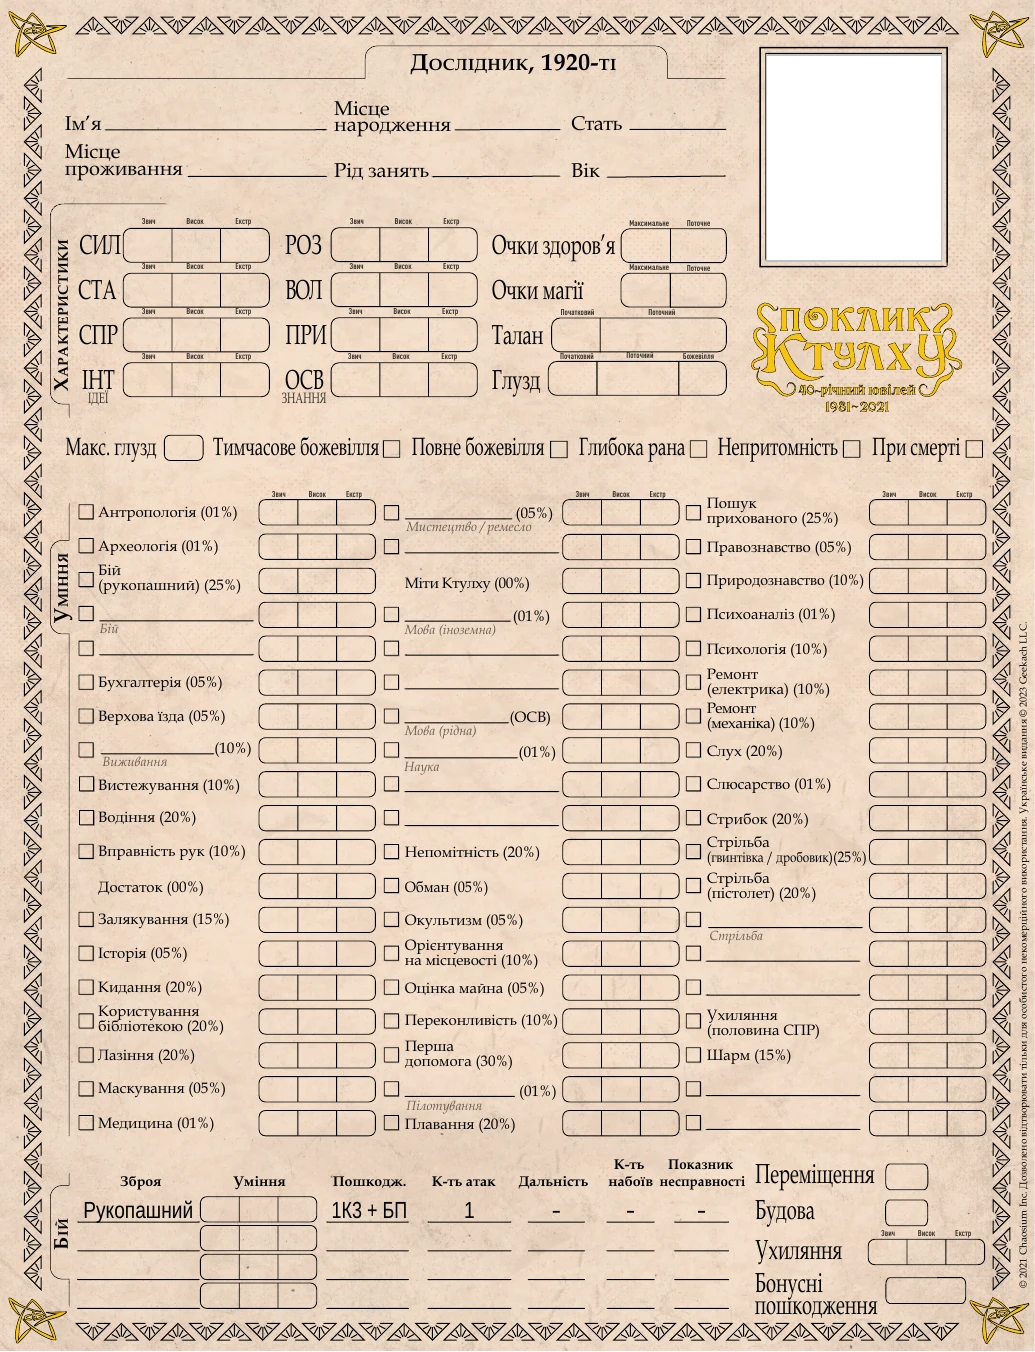
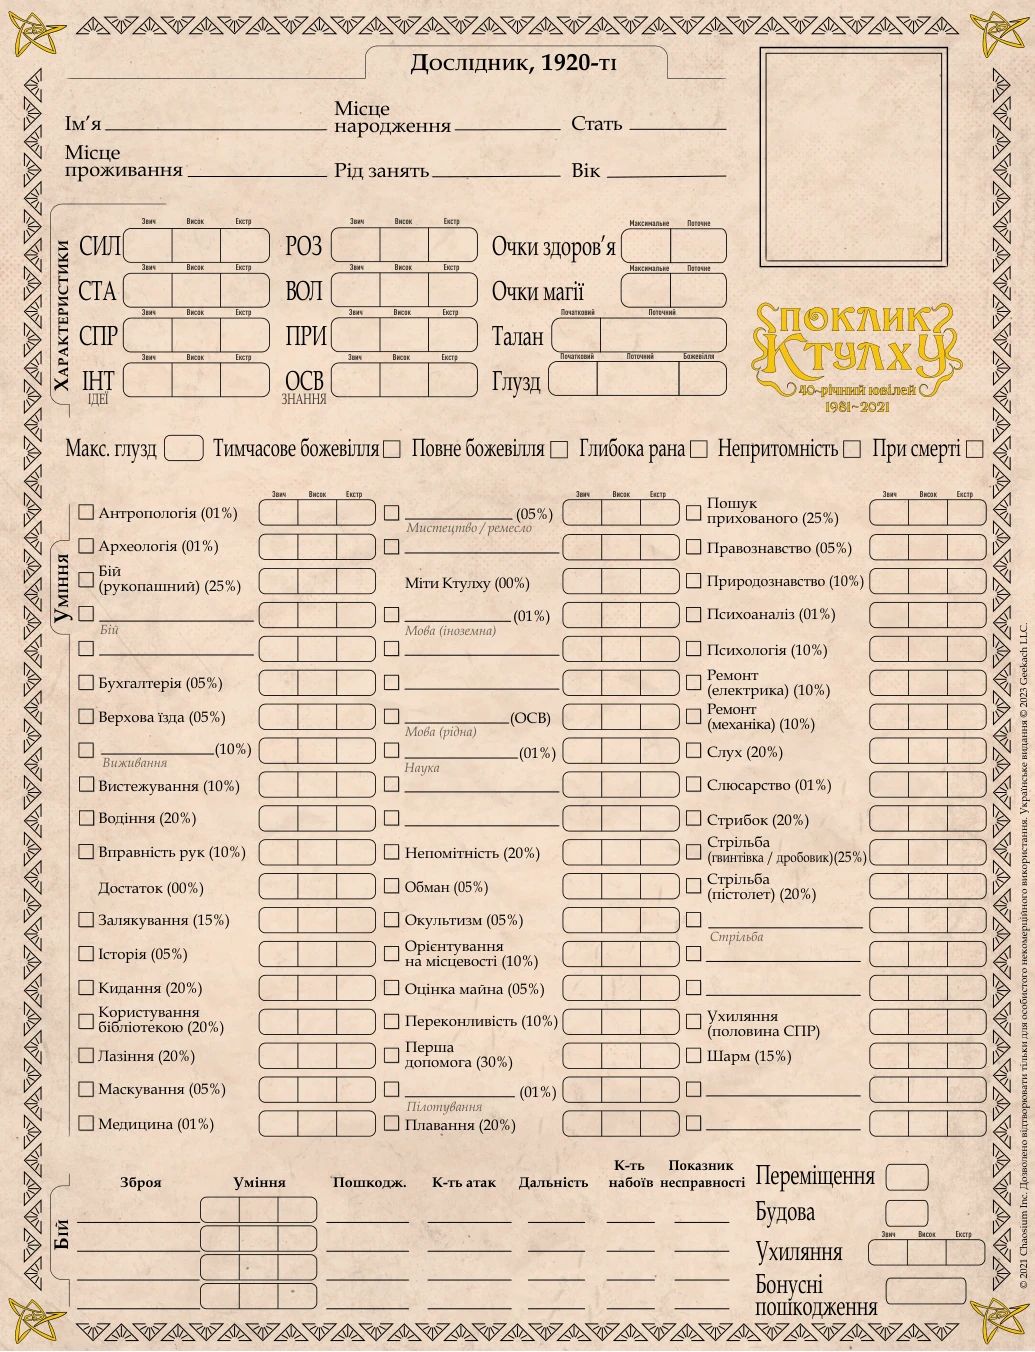
Remove preprinted combat defaults beneath transparent investigator sheet inputs

diff --git a/public/migration/index.html b/public/migration/index.html
@@ -310,7 +310,7 @@ body:has(#roomView.active){overflow:hidden}
 <link rel="stylesheet" href="/portal-tour.css?v=99"><script defer src="/portal-tour.js?v=99"></script>
 <link rel="stylesheet" href="/portal-room.css?v=101">
 <style>body[data-admin-embedded] main.app,body[data-admin-embedded] #siteUpdateNotice,body[data-admin-embedded] [data-action="site-management"]{display:none!important}body[data-admin-embedded]{min-height:100dvh}body[data-admin-embedded] dialog:not(.library-editor):not(.library-access-popup){width:calc(100vw - 12px);max-width:none;max-height:calc(100dvh - 12px);margin:auto}body[data-admin-embedded] dialog.library-browser{height:calc(100dvh - 12px)}body[data-admin-embedded]:has(dialog[open]) #embedded-editor-status{display:none}#embedded-editor-status{padding:24px;color:var(--muted)}</style>
-<link rel="stylesheet" href="/investigator-sheet.css?v=102">
+<link rel="stylesheet" href="/investigator-sheet.css?v=103">
 </head>
 <body>
 <main class="app">
@@ -2096,7 +2096,7 @@ document.addEventListener('submit',e=>{if(e.target?.id==='joinForm'&&!window.__c
     };
     const ruleStep=23.5;
     const ruleClearance=2.5;
-    const pages=[1,2,3].map(page=>`<section class="sheet-pdf-page" data-page="${page}"><img class="sheet-pdf-art" src="/assets/investigator-sheet-${page}.webp" alt="Оригінальний лист дослідника, сторінка ${page}"><div class="sheet-pdf-layer">${fields.filter(f=>f.page===page&&(page!==2||f.y<76)).map(f=>{
+    const pages=[1,2,3].map(page=>`<section class="sheet-pdf-page" data-page="${page}"><img class="sheet-pdf-art" src="/assets/investigator-sheet-${page}.webp?v=103" alt="Оригінальний лист дослідника, сторінка ${page}"><div class="sheet-pdf-layer">${fields.filter(f=>f.page===page&&(page!==2||f.y<76)).map(f=>{
       const [firstRule,ruledRows]=f.multiline?writingLines[Number(f.name.split(' ').pop())]||[]:[];
       const y=ruledRows?(firstRule-ruleStep-ruleClearance)*100/1352:f.y;
       const height=ruledRows?ruledRows*ruleStep*100/1352:f.h;

diff --git a/scripts/render-sheet-art.py b/scripts/render-sheet-art.py
@@ -1,0 +1,35 @@
+"""Render page one without preprinted values covered by editable combat fields.
+
+Requires PyMuPDF and Pillow. The original PDF remains unchanged.
+Run from the repository root: python scripts/render-sheet-art.py
+"""
+from pathlib import Path
+
+import fitz
+
+root = Path(__file__).resolve().parents[1]
+document = fitz.open(root / 'public/character-sheet-original.pdf')
+page = document[0]
+# Only remove the six defaults in the first combat row, preserving paper,
+# table rules and headings. HTML fields supply the localized placeholders.
+expected = ['Рукопашний', '1К3 + БП', '1', '-', '-', '-']
+spans = [
+    span
+    for block in page.get_text('dict')['blocks']
+    for line in block.get('lines', [])
+    for span in line['spans']
+    if 718 < span['bbox'][1] < 719 and span['bbox'][0] < 430
+]
+if [span['text'] for span in spans] != expected:
+    raise RuntimeError('The source sheet changed; check combat-row coordinates.')
+for span in spans:
+    page.add_redact_annot(fitz.Rect(span['bbox']), fill=None, cross_out=False)
+page.apply_redactions(images=0, graphics=0, text=0)
+remaining = page.get_text()
+assert 'Рукопашний' not in remaining and '1К3 + БП' not in remaining
+assert 'Зброя' in remaining and 'Уміння' in remaining
+scale = 1035 / page.rect.width
+pixmap = page.get_pixmap(matrix=fitz.Matrix(scale, scale), alpha=False, annots=False)
+assert (pixmap.width, pixmap.height) == (1035, 1352)
+pixmap.pil_save(root / 'public/assets/investigator-sheet-1.webp', format='WEBP', quality=90)
+print('Rendered page one: six duplicate defaults removed; original PDF preserved.')
